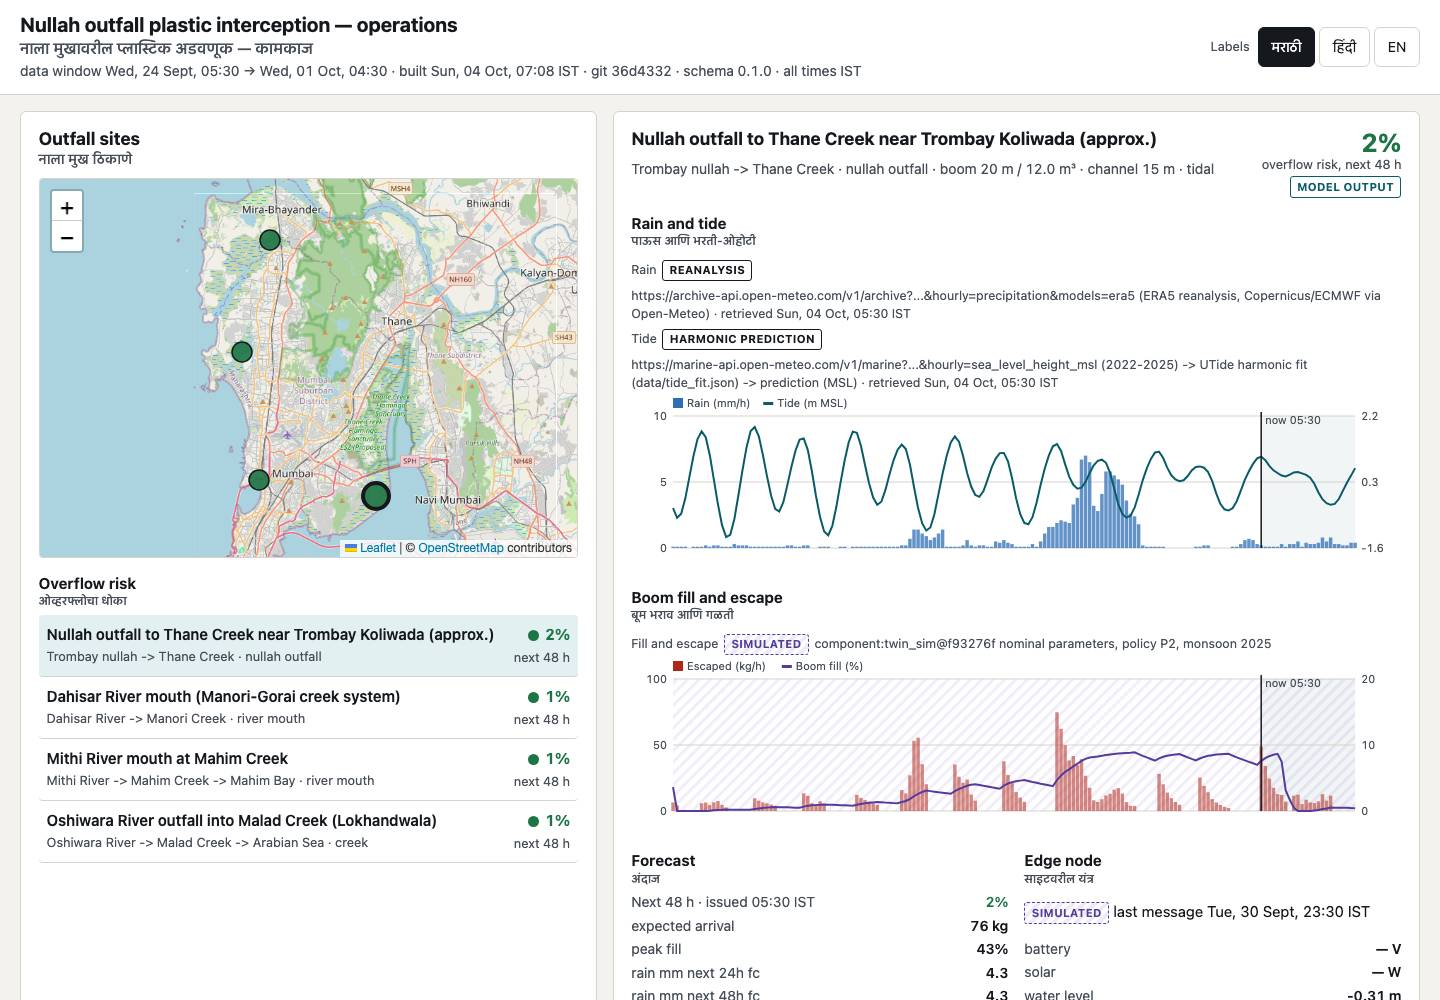
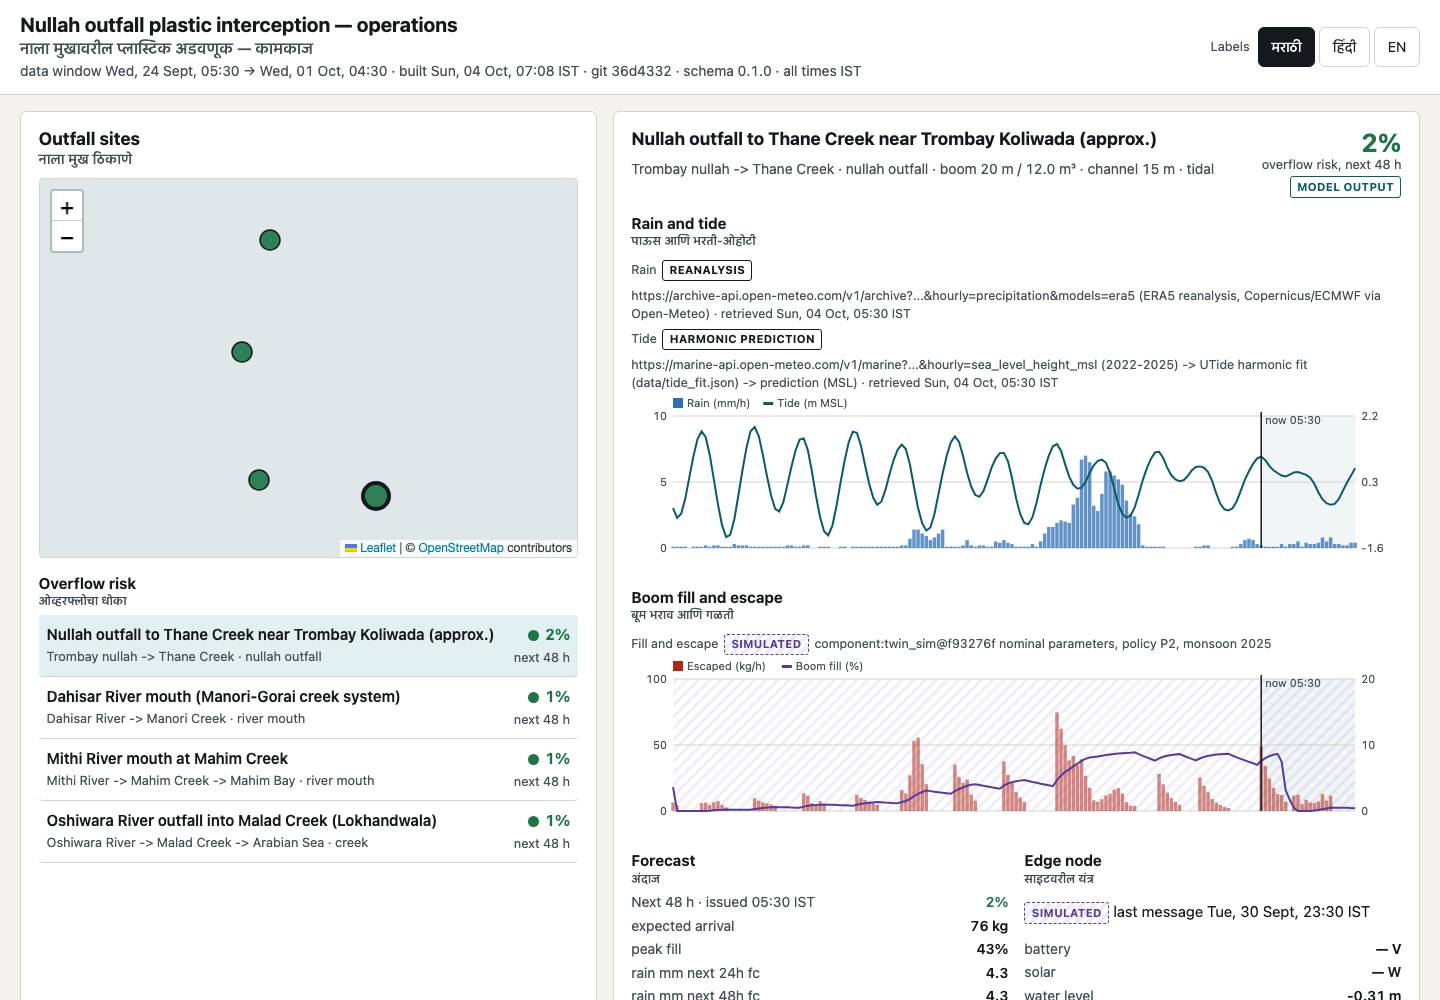
innovatex-t3-coastal-plastic: dashboard - clarify signature status after tamper demo

Changed region(s): [[0.0, 0.155, 0.4062, 0.558]]

diff --git a/innovatex-t3-coastal-plastic/components/dashboard/site/app.js b/innovatex-t3-coastal-plastic/components/dashboard/site/app.js
@@ -240,7 +240,7 @@
     var sg = await LedgerVerify.verifySignatures(S.entries, S.aux.signatures || [], S.aux.key_registry || {});
     var ms = Math.round(performance.now() - t0);
     S.marks = new Set(r.badSeqs);
-    var sigTxt = sg.supported ? ' · signatures ' + (sg.checked - sg.badSeqs.length) + '/' + sg.checked + ' valid (Ed25519)' : ' · Ed25519 signature check needs a newer browser (checked in the Python tests)';
+    var sigTxt = sg.supported ? ' · crew signatures on stored hashes ' + (sg.checked - sg.badSeqs.length) + '/' + sg.checked + ' valid (Ed25519)' : ' · Ed25519 signature check needs a newer browser (checked in the Python tests)';
     if (r.ok) { st.className = 'status ok'; st.textContent = '✓ ' + r.checked + ' records intact; head matches the published anchor · SHA-256 via ' + r.engine + sigTxt + ' · ' + ms + ' ms'; }
     else { st.className = 'status bad'; st.textContent = '✗ Tampering detected: ' + r.problems[0] + (r.problems.length > 1 ? ' (+' + (r.problems.length - 1) + ' more)' : '') + sigTxt; }
     renderLedger(S.marks);
